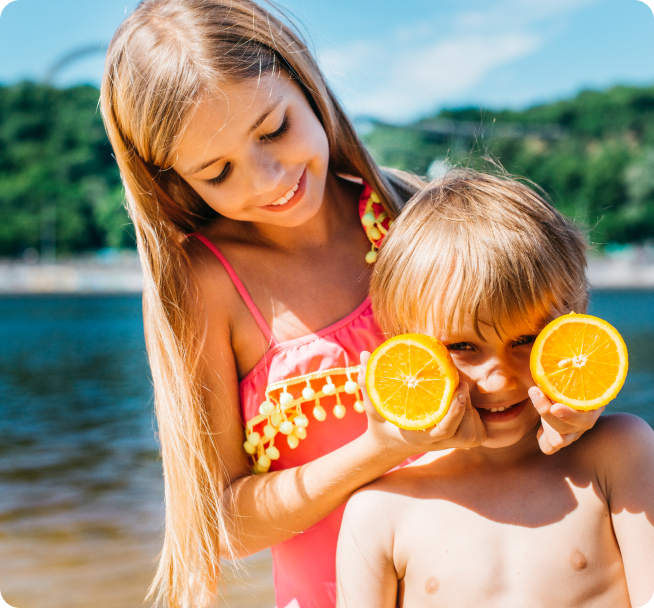
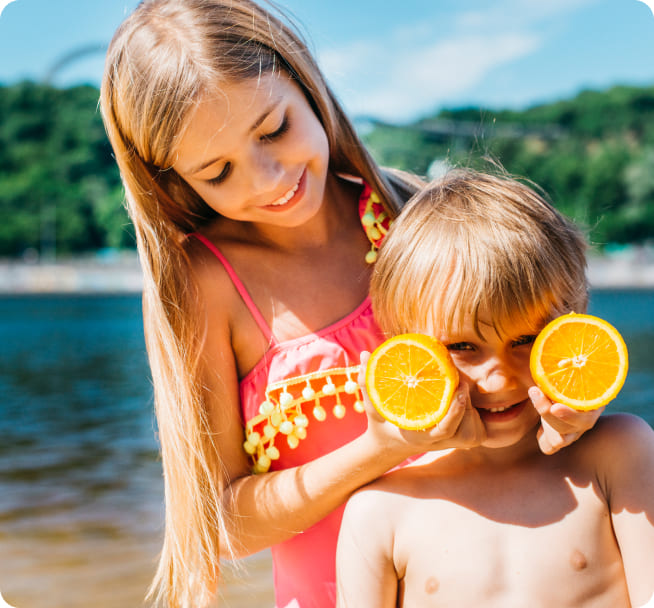
image compression

Changed region(s): [[0.581, 0.625, 0.6116, 0.6562], [0.3058, 0.8125, 0.3364, 0.8438]]

diff --git a/resources/views/patriotic-page.blade.php b/resources/views/patriotic-page.blade.php
@@ -27,7 +27,7 @@
             </div>
                 <div class="col-lg-5 col-md-12 col-sm-12 align-items-center order-1 order-lg-2 mb-40">
                     <div class="w-100">
-                        <img class="w-100 h-100" src="/img/main/patriotic/1.png" alt="patriotic-img">
+                        <img class="w-100 h-100" src="/img/main/patriotic/1.jpg" alt="patriotic-img">
                     </div>
                 </div>
             </div>
@@ -39,7 +39,7 @@
         <div class="row container-mob">
             <div class="col-lg-5 mb-40">
                 <div class="w-100">
-                    <img class="w-100" src="/img/main/patriotic/2.png" alt="patriotic-img">
+                    <img class="w-100" src="/img/main/patriotic/2.jpg" alt="patriotic-img">
                 </div>
             </div>
             <div class="col-lg-7">
@@ -74,12 +74,11 @@
                 </div>
                 <div class="col-lg-5 col-md-12 col-sm-12 order-1 order-lg-2 mb-40">
                     <div class="w-100">
-                        <img class="w-100" src="/img/main/patriotic/3.png" alt="patriotic-img">
+                        <img class="w-100" src="/img/main/patriotic/3.jpg" alt="patriotic-img">
                     </div>
                 </div>
             </div>
         </div>
-
 </section>
 
 <section class="flag pb-120">
@@ -88,7 +87,7 @@
         <div class="row align-items-center container-mob">
                 <div class="col-lg-5 col-md-12 col-sm-12 order-1 order-lg-2 mb-40">
                     <div class="w-100">
-                        <img class="w-100" src="/img/main/patriotic/4.png" alt="patriotic-img">
+                        <img class="w-100" src="/img/main/patriotic/4.jpg" alt="patriotic-img">
                     </div>
                 </div>
                 <div class="col-lg-7 text order-2 order-lg-7">
@@ -120,7 +119,7 @@
                 </div>
                 <div class="col-lg-5 col-md-12 col-sm-12 order-1 order-lg-2 mb-40">
                     <div class="w-100">
-                        <img class="w-100" src="/img/main/patriotic/5.png" alt="patriotic-img">
+                        <img class="w-100" src="/img/main/patriotic/5.jpg" alt="patriotic-img">
                     </div>
                 </div>
             </div>

diff --git a/resources/views/camp.blade.php b/resources/views/camp.blade.php
@@ -98,7 +98,7 @@
                         <div class="swiper-wrapper">
                             <div class="swiper-slide">
                                 <div class="d-flex h-100 justify-content-center">
-                                    <img src="/img/main/history/camp-10.jpg" alt="history-img">
+                                    <img src="/img/main/history/camp-1.jpg" alt="history-img">
                                 </div>
                             </div>
                             <div class="swiper-slide">
@@ -143,7 +143,7 @@
                             </div>
                             <div class="swiper-slide">
                                 <div class="d-flex h-100 justify-content-center">
-                                    <img src="/img/main/history/camp-1.jpg" alt="history-img">
+                                    <img src="/img/main/history/camp-10.jpg" alt="history-img">
                                 </div>
                             </div>
                         </div>

diff --git a/resources/views/camp-dreamland.blade.php b/resources/views/camp-dreamland.blade.php
@@ -3,8 +3,6 @@
 @section('description', 'Фабрика звезд - детский отдых в Беларуси в Минске. Детские образовательные лагеря круглосуточного и дневного пребывания.')
 @section('content')
 
-
-
 <section id="head"
             class="head mb-120 position-relative @if(!empty($mainNews)  && count($mainNews) > 0) notification-size @endif">
         <div class="container">

diff --git a/resources/views/camp-georgia.blade.php b/resources/views/camp-georgia.blade.php
@@ -98,7 +98,7 @@
             </div>
 
             <div class="d-block col-lg-6">
-                <div class="w-100 schedule-photo">
+                <div class="w-100 h-100 schedule-photo">
                     <img src="/img/main/schedule/camp-georgia.jpg" alt="schedule-img">
                 </div>
             </div>
